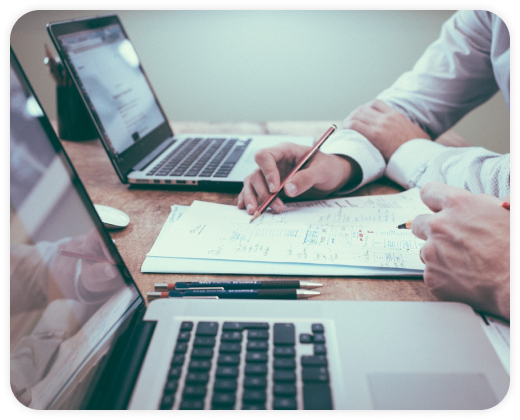
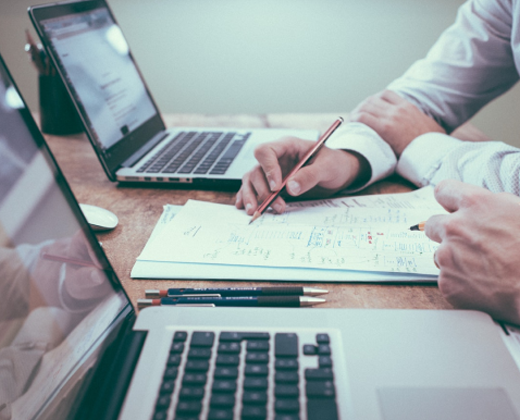
start adapt site

diff --git a/ITCompany/index.html b/ITCompany/index.html
@@ -138,7 +138,7 @@
        <div class="standarts graybg">
         <div class="content__wrapper">
             <div class="row">
-                <div class="col-sm-6 p-5">
+                <div class="col-lg-6 p-5">
                     <div class="headertext_h2">
                         <h2>Высокие стандарты
                                 разработки</h2>
@@ -150,9 +150,9 @@
                         <a href="#">Подробнее о компании</a>
                     </div>   
                 </div>
-                <div class="col-sm-6">
+                <div class="col-lg-6 padding_top_100">
                     <div class="standarts_img" >
-                        <img src="img/standarts.png" alt="standarts">
+                        
                     </div>
                 </div>
             </div>
@@ -251,9 +251,9 @@
                     </div> 
                 </div>
                 <div class="row work_cards">
-                    <div class="col-4">
+                    <div class="col-lg-4">
                         <div class="work_card_img">
-                            <img src="img/work.png" alt="work">
+                   
                         </div>
                         <div class="work_card_h4">
                             <h4> <span class="work_card_num">01.</span>  Исследование и упаковка</h4>
@@ -265,9 +265,9 @@
                             <a href="#">Подробнее</a>
                         </div>                 
                     </div>
-                    <div class="col-4">
+                    <div class="col-lg-4">
                         <div class="work_card_img">
-                            <img src="img/work.png" alt="work">
+                   
                         </div>
                         <div class="work_card_h4">
                             <h4> <span class="work_card_num">01.</span>  Исследование и упаковка</h4>
@@ -279,9 +279,9 @@
                             <a href="#">Подробнее</a>
                         </div>                 
                     </div>
-                    <div class="col-4">
+                    <div class="col-lg-4">
                         <div class="work_card_img">
-                            <img src="img/work.png" alt="work">
+                        
                         </div>
                         <div class="work_card_h4">
                             <h4> <span class="work_card_num">01.</span>  Исследование и упаковка</h4>
@@ -308,17 +308,17 @@
                 <p>Lorem Ipsum - это текст-"рыба", часто используемый в печати и вэб-дизайне. Lorem Ipsum является стандартной "рыбой" для текстов на латинице с начала XVI века. </p>
             </div>
             <div class="row project_photo">
-                <div class="col-3">
-                    <img src="img/project.png" alt="project">
+                <div class="col-lg-6 ">
+                    <div class="project_photo_img"></div>
                 </div>
-                <div class="col-3">
-                    <img src="img/project.png" alt="project">
+                <div class="col-lg-6  ">
+                    <div class="project_photo_img"></div>
                 </div>
-                <div class="col-3">
-                    <img src="img/project.png" alt="project">
+                <div class="col-lg-6  ">
+                    <div class="project_photo_img"></div>
                 </div>
-                <div class="col-3">
-                    <img src="img/project.png" alt="project">
+                <div class="col-lg-6  ">
+                    <div class="project_photo_img"></div>
                 </div>
             </div>
             <div class="col text-center services_button">
@@ -362,7 +362,7 @@
        <footer>
             <div class="content__wrapper">
                 <div class="row footer_columns">
-                    <div class="col-3 footer_column">
+                    <div class="col-md-3 col-sm-6 col-12  footer_column">
                         <div class="footer_column_h3">
                             <h3>Контактная информация</h3>
                         </div>
@@ -375,7 +375,7 @@
                         </div>                        
                     </div>
 
-                    <div class="col-3 footer_column">
+                    <div class="col-md-3 col-sm-6 col-12 footer_column">
                             <div class="footer_column_h3">
                                 <h3>Основные ссылки</h3>
                             </div>
@@ -389,7 +389,7 @@
                             </div>                        
                         </div>
 
-                        <div class="col-3 footer_column">
+                        <div class="col-md-3 col-sm-6 col-12  footer_column">
                                 <div class="footer_column_h3">
                                     <h3>Наши проекты</h3>
                                 </div>
@@ -403,7 +403,7 @@
                                 </div>                        
                             </div>
 
-                            <div class="col-3 footer_column">
+                            <div class="col-md-3 col-sm-6 col-12  footer_column">
                                     <div class="footer_column_h3">
                                         <h3>Социальные сети</h3>
                                     </div>

diff --git a/ITCompany/css/style.css b/ITCompany/css/style.css
@@ -469,7 +469,8 @@ textarea {
 }
 
 .header_active{
-    background: #0E1D28;
+    background: #494b4f;
+    opacity: 0.95;
 }
 .header__wrapper{
     display: -webkit-box;
@@ -505,6 +506,11 @@ textarea {
     color: white;
     text-decoration: none;
 }
+
+.padding_top_100{
+    padding-top: 100px;
+}
+
 .header__link:hover, .header__link:focus, .header__link:active{
    color: rgb(224, 224, 224);
 }
@@ -706,7 +712,11 @@ textarea {
 }
 
 .standarts_img{
-    padding-top: 100px;
+    background: url(../img/standarts.png) no-repeat;
+    width: 500px;
+    height: 400px;
+    box-shadow: 0px 0px 10px rgba(111, 111, 111, 0.25);
+    border-radius: 30px;
 }
 
 .project{
@@ -742,6 +752,23 @@ textarea {
 .work_card_num{
     color: #4985FF;
 }
+
+.work_card_img{
+    background: url(../img/work.png) no-repeat;
+    width: 350px;
+    height: 300px;
+    border-radius: 10px;
+}
+
+.project_photo_img{
+    background: url(../img/project.png) no-repeat;
+    width: 255px;
+    height: 255px;
+    border-radius: 10px;
+
+}
+
+
 
 .work_link{
     padding-top: 30px;
@@ -910,3 +937,25 @@ footer{
     padding-bottom: 20px;
    }
 /* footer end */
+
+/* Media start */
+
+@media screen and (max-width: 940px){
+    .video{
+        display: none;
+    }
+    .padding_top_100{
+        padding-top: 0px;
+    }
+
+}
+
+
+@media screen and (max-width: 540px){
+    .standarts_img{
+        width: 100%;
+        height: 300px;
+    }
+
+}
+/* Media end */

diff --git a/ITCompany/js/main.js b/ITCompany/js/main.js
@@ -1,0 +1,8 @@
+"use strict";!function(){
+    let e=document.querySelector(".header");
+        window.onscroll=function(){
+        window.pageYOffset>50?e.classList.add("header_active"):e.classList.remove("header_active")}}(),function(){var e=document.querySelector(".burger"),t=document.querySelector(".header__nav"),n=document.querySelector(".header__nav-close"),r=document.querySelectorAll(".header__link");
+        if(e.addEventListener("click",function(){t.classList.add("header__nav_active")}),n.addEventListener("click",function(){t.classList.remove("header__nav_active")}),window.innerWidth<=767)for(var c=0;c<r.length;c++)r[c].addEventListener("click",function(){t.classList.remove("header__nav_active")})}(),document.querySelectorAll(".js-scroll").forEach(function(e){e.addEventListener("click",function(){var e,t,n,r,c,i,o=this.getAttribute("href");
+        e=o,t=1e3,n=document.querySelector(".header").clientHeight,r=document.querySelector(e).getBoundingClientRect().top-n,c=window.pageYOffset,i=null,requestAnimationFrame(function e(n){null===i&&(i=n);
+        var o,a,d,l=n-i,u=(o=l,a=c,d=r,(o/=t/2)<1?d/2*o*o+a:-d/2*(--o*(o-2)-1)+a);
+        window.scrollTo(0,u),l<t&&requestAnimationFrame(e)})})});
